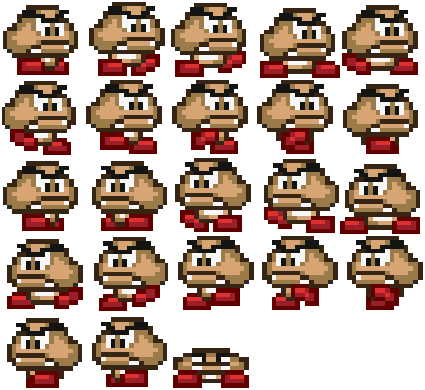
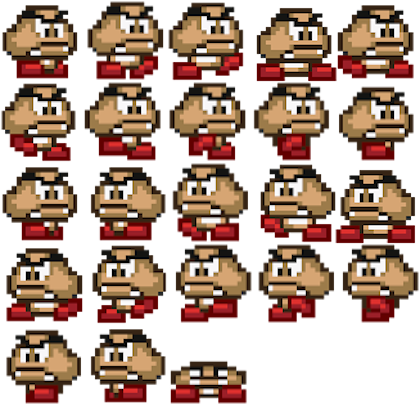
taille champi ok

diff --git a/graphique.c b/graphique.c
@@ -179,10 +179,10 @@ void init_champi(ressources_t *ressources){
 		for (int i = 0; i < n; i++) {
             for (int j = 0; j < m; j++){
                if('&' == tab[i][j]  ){
-                    ressources->DestR_champi[a].x =  j *tailleW_c / 6;
-		            ressources->DestR_champi[a].y =  i * tailleH_c / 8;
-		           	ressources->DestR_champi[a].w = tailleW_c / 6; // Largeur du sprite
-		            ressources->DestR_champi[a].h = tailleH_c / 8; // Hauteur du sprite
+                    ressources->DestR_champi[a].x =  j * 28;
+		            ressources->DestR_champi[a].y =  i * 30;
+		           	ressources->DestR_champi[a].w = 28; // Largeur du sprite
+		            ressources->DestR_champi[a].h = 30; // Hauteur du sprite
 					a++;
                 }
             }
